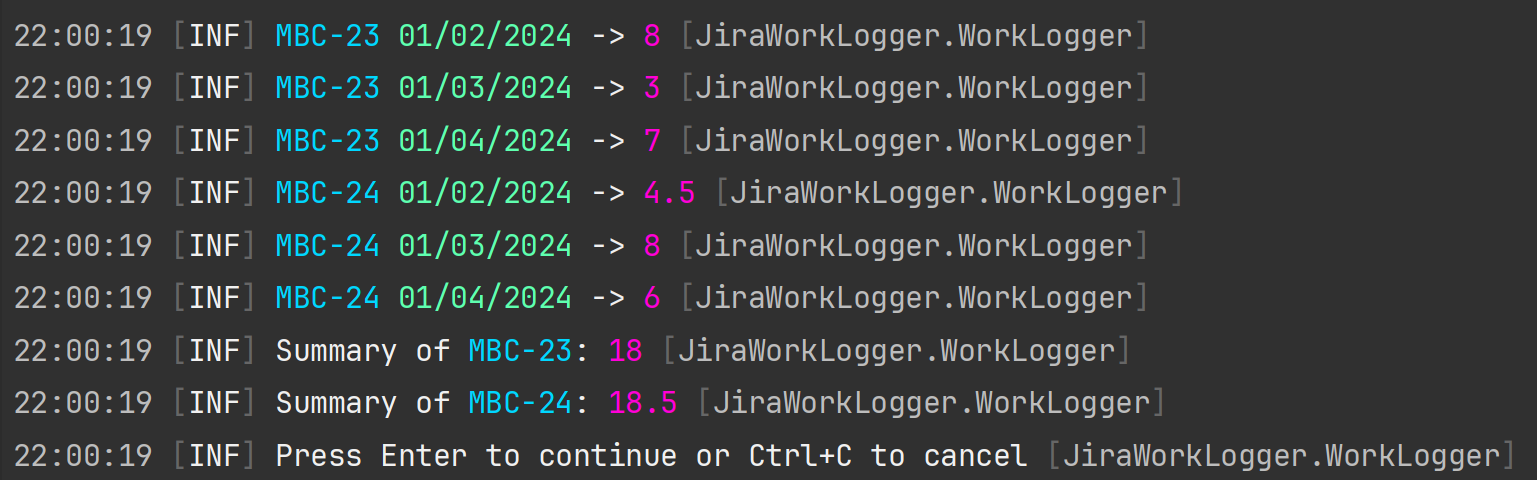
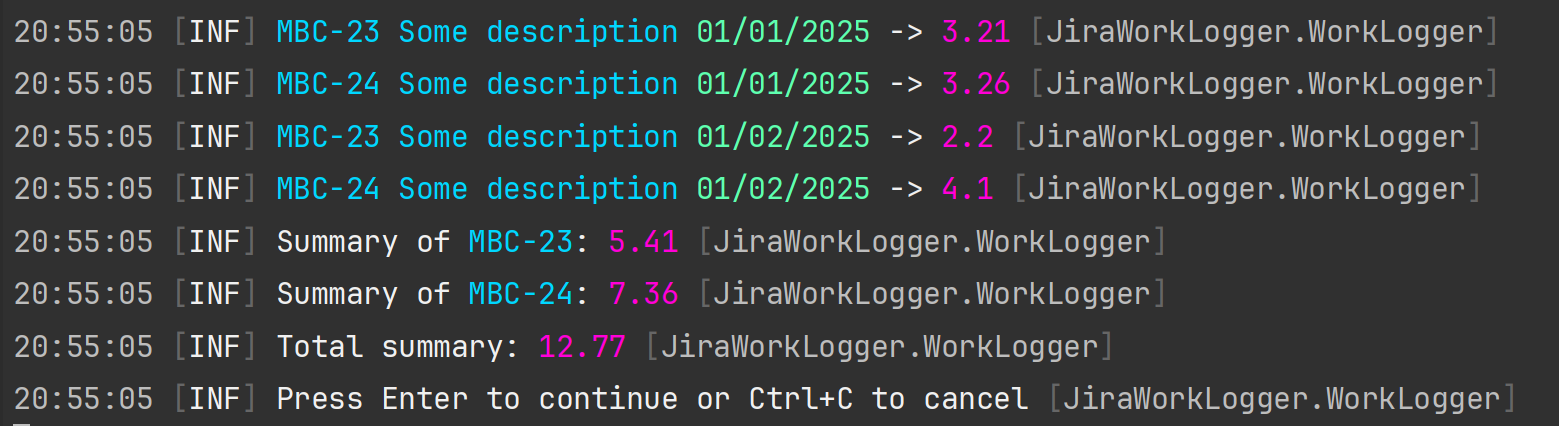
Update documentation

Changed region(s): [[0.0, 0.1526, 0.9993, 0.9765], [0.0, 0.0305, 0.9681, 0.1221]]

diff --git a/README.md b/README.md
@@ -6,14 +6,6 @@ A simple console application created for my own needs. It allows to create work 
 
 <img src="./assets/images/excel-range-select.png" alt="Excel - select range" width="200" height="auto">
 
-For the records in the image above, it creates the following work logs in Jira issues:
-- MBC-23: Jan 2 -> 8h
-- MBC-23: Jan 3 -> 3h
-- MBC-23: Jan 4 -> 7h
-- MBC-24: Jan 2 -> 4h 30m
-- MBC-24: Jan 3 -> 8h
-- MBC-24: Jan 4 -> 6h
-
 ## Configuration
 
 ### 1. Get API token for Atlassian Account
@@ -40,9 +32,11 @@ dotnet user-secrets set "app:apiToken" "XYZ.........."
 - Alternatively you can copy text directly from any editor
   - For the sample above it should looks like this
     ```text
-    \t2.1.\t3.1.\t4.1.
-    MBC-23\t8\t3\t7
-    MBC-24\t4,5\t8\t6
+    Datum\tHodin\tPopis činnosti\tWork Item
+    01.01.2025\t3,21\tSome description\tMBC-23
+    01.01.2025\t3,26\tSome description\tMBC-24
+    02.01.2025\t2,2\tSome description\tMBC-23
+    02.01.2025\t4,1\tSome description\tMBC-24
     ```
 - Paste text from Excel (or the direct text) into console when asked by the application
 - Press <kbd>Enter</kbd>
